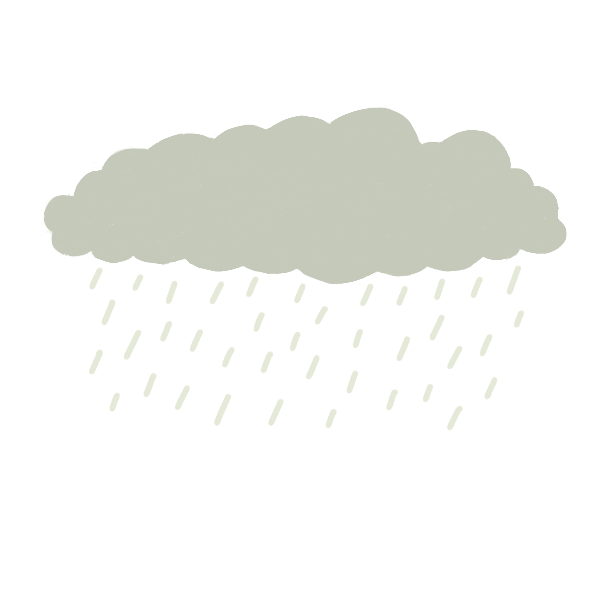
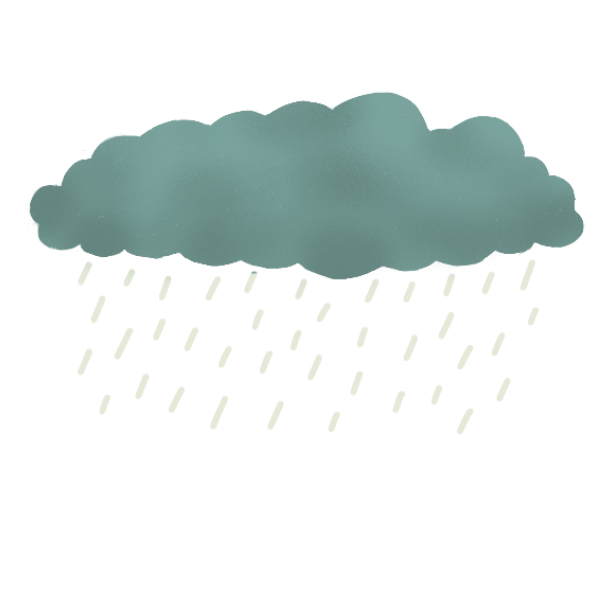
updated images and fonts, html, css
tested several images that i thought would be suitable as the weather icons, repositioned some elements and updated styles on css

diff --git a/index.html b/index.html
@@ -5,7 +5,7 @@
     <title>FirstDraft</title>
     <meta charset="UTF-8" />
     <link
-        href="https://fonts.googleapis.com/css2?family=Gravitas+One&family=Montserrat:wght@500;600&family=Playfair+Display:ital@1&display=swap"
+        href="https://fonts.googleapis.com/css2?family=Gravitas+One&family=Montserrat:wght@600&family=Playfair+Display:ital@1&family=Raleway&display=swap"
         rel="stylesheet">
 
     <link href="https://cdn.jsdelivr.net/npm/bootstrap@5.0.0-beta1/dist/css/bootstrap.min.css" rel="stylesheet"
@@ -21,8 +21,16 @@
                 <h1 id="Main-city"> New York </h1>
                 <h3 class="day-name">Wednesday</h3>
                 <p class="today-datetime">
-                    1/1/2021 &nbsp;&nbsp;&nbsp; 20:30
+                    1 / 1 / 2021 &nbsp;&nbsp;&nbsp; 20:30
                 </p>
+                <span class="quote">
+                    <!-- " Whenever you go, no matter the weather, always bring your own sunshine." -->
+                    <!-- "Smell the rain." -->
+                    <!-- "Clouds are the sky's imagination." -->
+                    <!-- "Lightning dances - Thunder applauds her." -->
+                    <!-- " Snowflakes are kisses from heavem." -->
+                    " One should see that all appearance is like mist and fog."
+                </span>
                 <div id="float-r">
                 <h3  class="description">
                     <strong class="today-temp">
@@ -40,14 +48,10 @@
                 <br />
                 <div class="float-l">
                 <img  class="main-description" 
-                src="/image/03cs.png" />
-                <span class="quote">
-                    <!-- "Whenever you go, no matter the weather, always bring your own sunshine." -->
-                    "Smell the rain."
-                </span>
+                src="/image/09f.png" />
                 </div>
                 <form class="input-group">
-                    <input id="city-input" type="text" class="form-control" placeholder="Enter a city" />
+                    <input id="city-input" type="text" class="form-control" placeholder=" Enter a city " />
 
                     <button class="btn 1" type="submit" id="search-input">
                         Search
@@ -58,37 +62,37 @@
                 <div id="days">
                     <section>
                         <h3 class="weekname">Thursday</h3>
-                        <img class="outcome" src="/image/01sc.png" />
+                        <img class="outcome" src="/image/02cs.png" />
                         &nbsp;&nbsp;&nbsp;&nbsp;
                         <span class="degree"> 9° / 3° </span>
                     </section>
                     <section>
                         <h3 class="weekname">Friday</h3>
-                        <img class="outcome" src="/image/02c.png" />
+                        <img class="outcome" src="/image/03c.png" />
                         &nbsp;&nbsp;&nbsp;&nbsp;
                         <span class="degree"> 9° / 5° </span>
                     </section>
                     <section>
                         <h3 class="weekname">Saturday</h3>
-                        <img class="outcome" src="/image/04cs.png" />
+                        <img class="outcome" src="/image/04bc.png" />
                         &nbsp;&nbsp;&nbsp;&nbsp;
                         <span class="degree"> 9° / 4° </span>
                     </section>
                     <section>
                         <h3 class="weekname">Sunday</h3>
-                        <img class="outcome" src="/image/05s.png" />
+                        <img class="outcome" src="/image/05sn.png" />
                         &nbsp;&nbsp;&nbsp;&nbsp;
                         <span class="degree"> 8° / 3° </span>
                     </section>
                     <section>
                         <h3 class="weekname">Monday</h3>
-                        <img class="outcome" src="/image/06r.png" />
+                        <img class="outcome" src="/image/07sr.png" />
                         &nbsp;&nbsp;&nbsp;&nbsp;
                         <span class="degree"> 8° / 1° </span>
                     </section>
                     <section>
                         <h3 class="weekname">Tuesday</h3>
-                        <img class="outcome" src="/image/07t.png" />
+                        <img class="outcome" src="/image/08t.png" />
                         &nbsp;&nbsp;&nbsp;&nbsp;
                         <span class="degree"> 9° / 1° </span>
                     </section>
@@ -98,7 +102,7 @@
     </div>
     <script src="src/index.js"></script>
     <p class="bottom-text">
-        <a href="https://github.com/RioCantre/SCplusweatherappproject" target="_blank">Open-source code by</a> &nbsp;
+        <a href="https://github.com/RioCantre/SCplusweatherappproject" target="_blank">Open-source</a> code by&nbsp;
         <span class="name">
             Rio Cantre
         </span> 

diff --git a/src/styles.css b/src/styles.css
@@ -1,9 +1,13 @@
+body {
+  font-family: "Raleway", sans-serif;
+}
+
 .container {
   background-image: url(/image/bg.png);
   background-repeat: no-repeat;
   background-size: cover;
   border-radius: 25px;
-  margin-top: 6%;
+  margin-top: 4%;
   max-width: 650px;
   max-height: 650px;
   padding: 20px 10px;
@@ -18,7 +22,7 @@
 h1 {
   color: #1e0b44;
   font-size: 36px;
-  padding-top: 30px;
+  padding-top: 50px;
   padding-bottom: 10px;
   font-weight: bold;
   font-family: "Gravitas One", cursive;
@@ -27,60 +31,79 @@ h1 {
 #float-r {
   float: right;
   width: 35%;
-  padding: 30px 5px;
+  padding-top: 60px;
 }
 
 #float-l img {
   float: left;
   display: block;
-  width: 70%;
+  width: 50%;
+  padding-top: 10px;
 }
 
-ul li {
-  list-style: none;
-}
 .day-name {
   font-size: 25px;
   font-family: "Montserrat", sans-serif;
   font-weight: bold;
   line-height: 30px;
+  color: #68987f;
 }
 
 .today-datetime {
   font-size: 15px;
+  color: #371560;
+  padding-bottom: 20px;
+  font-family: "Montserrat", sans-serif;
 }
 
-.quote {
-  font-size: 13px;
-  line-height: 5px;
-  font-family: "Playfair Display", serif;
-  font-weight: bold;
+.other-info {
+  font-size: 12px;
+  text-align: center;
+  line-height: 10px;
+  color: #371560;
+  font-family: "Montserrat", sans-serif;
 }
 .today-temp {
-  font-size: 26px;
+  font-size: 33px;
   font-family: "Gravitas One", cursive;
+  color: #1e0b44;
 }
 .unit {
-  font-size: 11px;
+  font-size: 12px;
+  color: #5c095a;
+  font-family: "Montserrat", sans-serif;
 }
 .main-description {
   width: 200px;
 }
-.other-info {
-  font-size: 10px;
-  padding-right: 20px;
+
+.quote {
+  font-size: 13px;
+  line-height: 16px;
+  font-family: "Playfair Display", serif;
+  font-weight: bold;
+  color: #371560;
+  text-align: center;
+  display: block;
+}
+
+form {
+  padding-bottom: 16px;
 }
 
 #city-input {
   width: 150px;
   border-radius: 20px;
+  font-size: 14px;
 }
 #search-input {
   background: #68987f;
   color: #1e0b44;
-  margin-left: 3px;
+  margin-left: 4px;
   border-radius: 20px;
   transition: all 200ms ease;
+  font-size: 14px;
+  font-family: "Montserrat", sans-serif;
 }
 #search-input:hover {
   color: #e7c120;
@@ -89,6 +112,7 @@ ul li {
 
 .order-first {
   margin: 20px 14px;
+  padding-bottom: 10px;
 }
 #days {
   border-right: 1px #68987f solid;
@@ -100,6 +124,7 @@ ul li {
   font-weight: bold;
   margin-top: 20px;
   font-family: "Montserrat", sans-serif;
+  color: #1e0b44;
 }
 .outcome {
   margin-top: 5px;
@@ -108,12 +133,15 @@ ul li {
 }
 .degree {
   font-size: 12px;
-  font-weight: bold;
+  color: #371560;
+  font-family: "Montserrat", sans-serif;
 }
 
 .bottom-text {
   text-align: center;
   font-size: 16px;
+  color: #68987f;
+  padding-top: 10px;
 }
 a {
   text-decoration: none;
@@ -123,6 +151,7 @@ a:hover {
   color: #f6d365;
 }
 .name {
-  font-family: "Dancing Script", cursive;
-  font-size: 19px;
+  font-size: 16px;
+  color: #1e0b44;
+  font-family: "Montserrat", sans-serif;
 }
